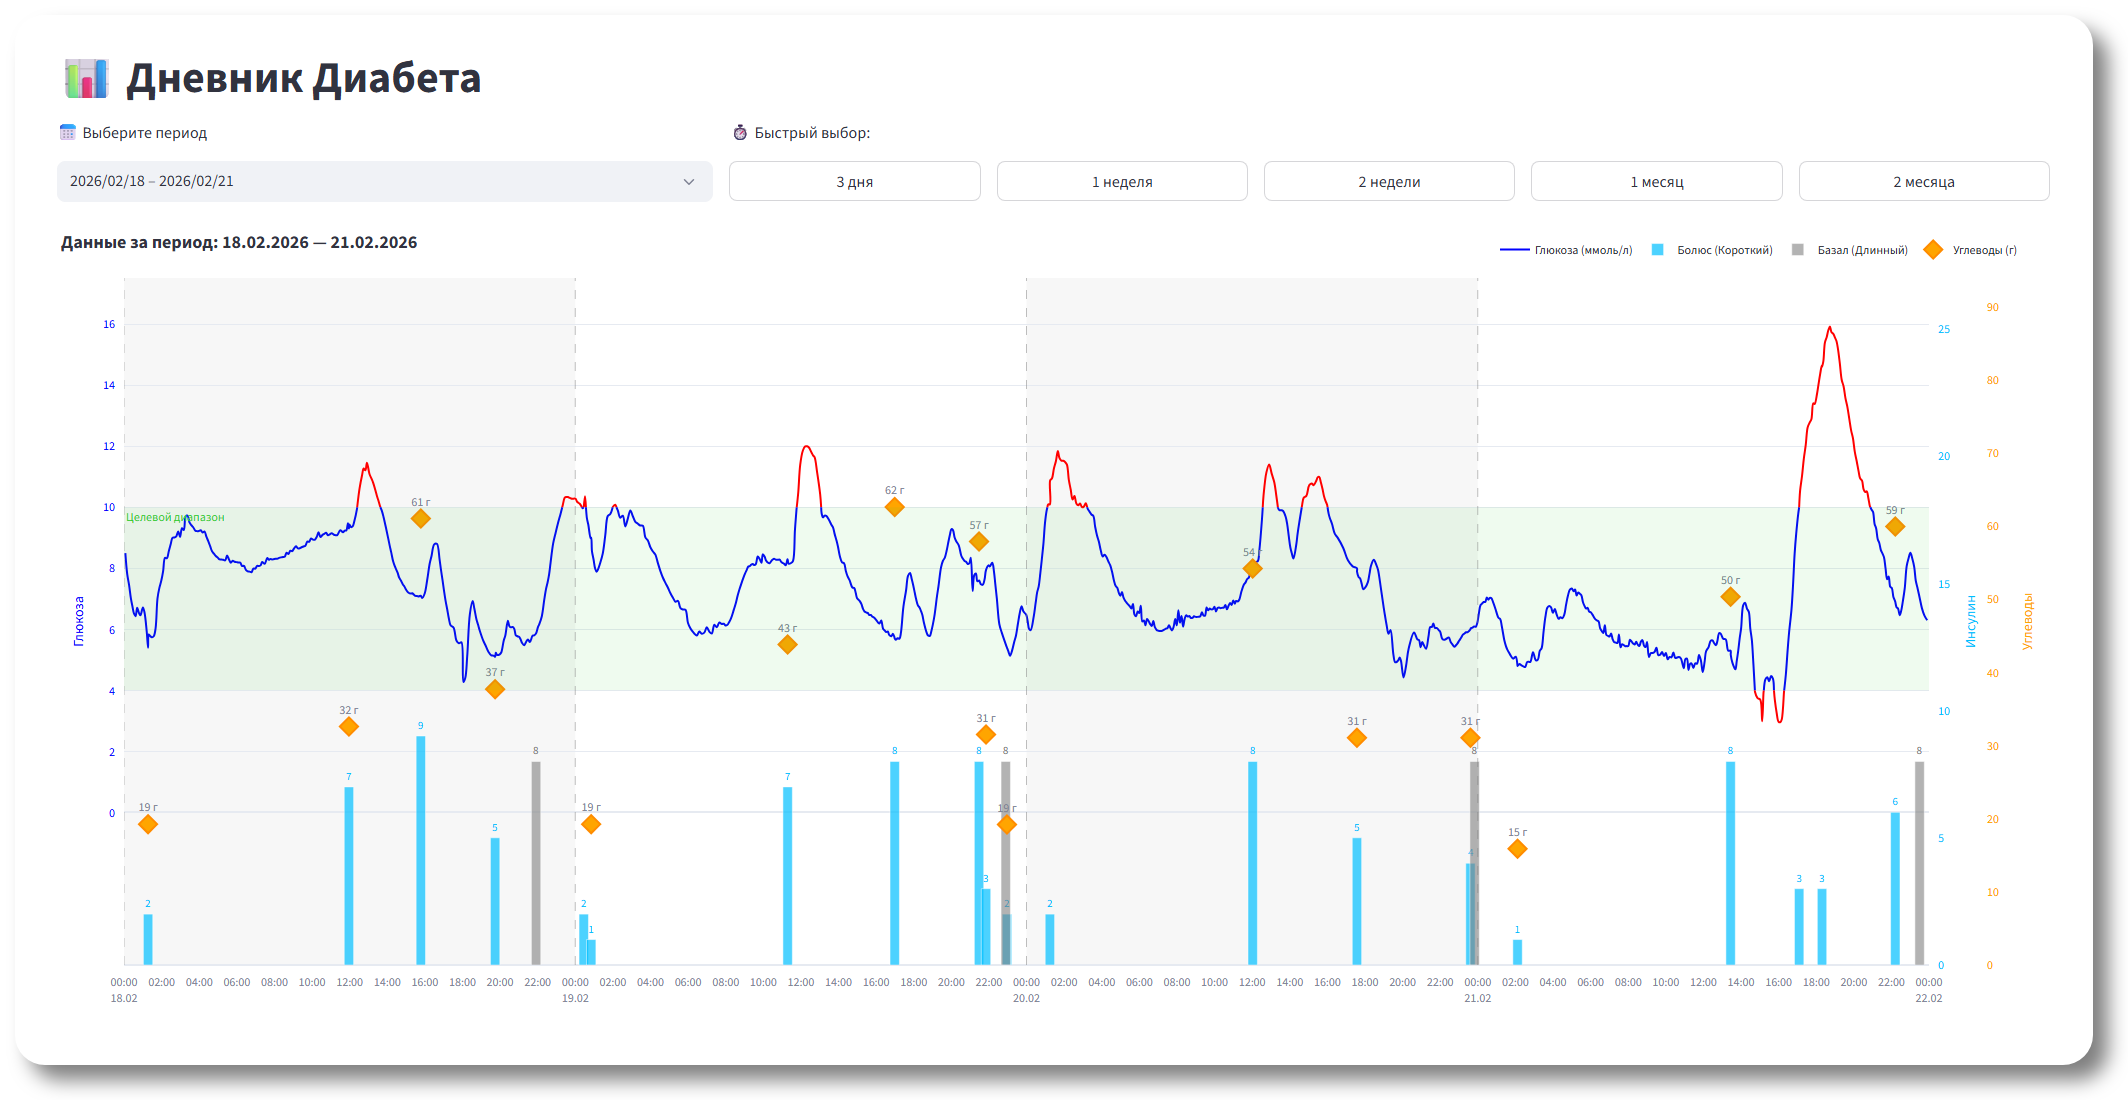
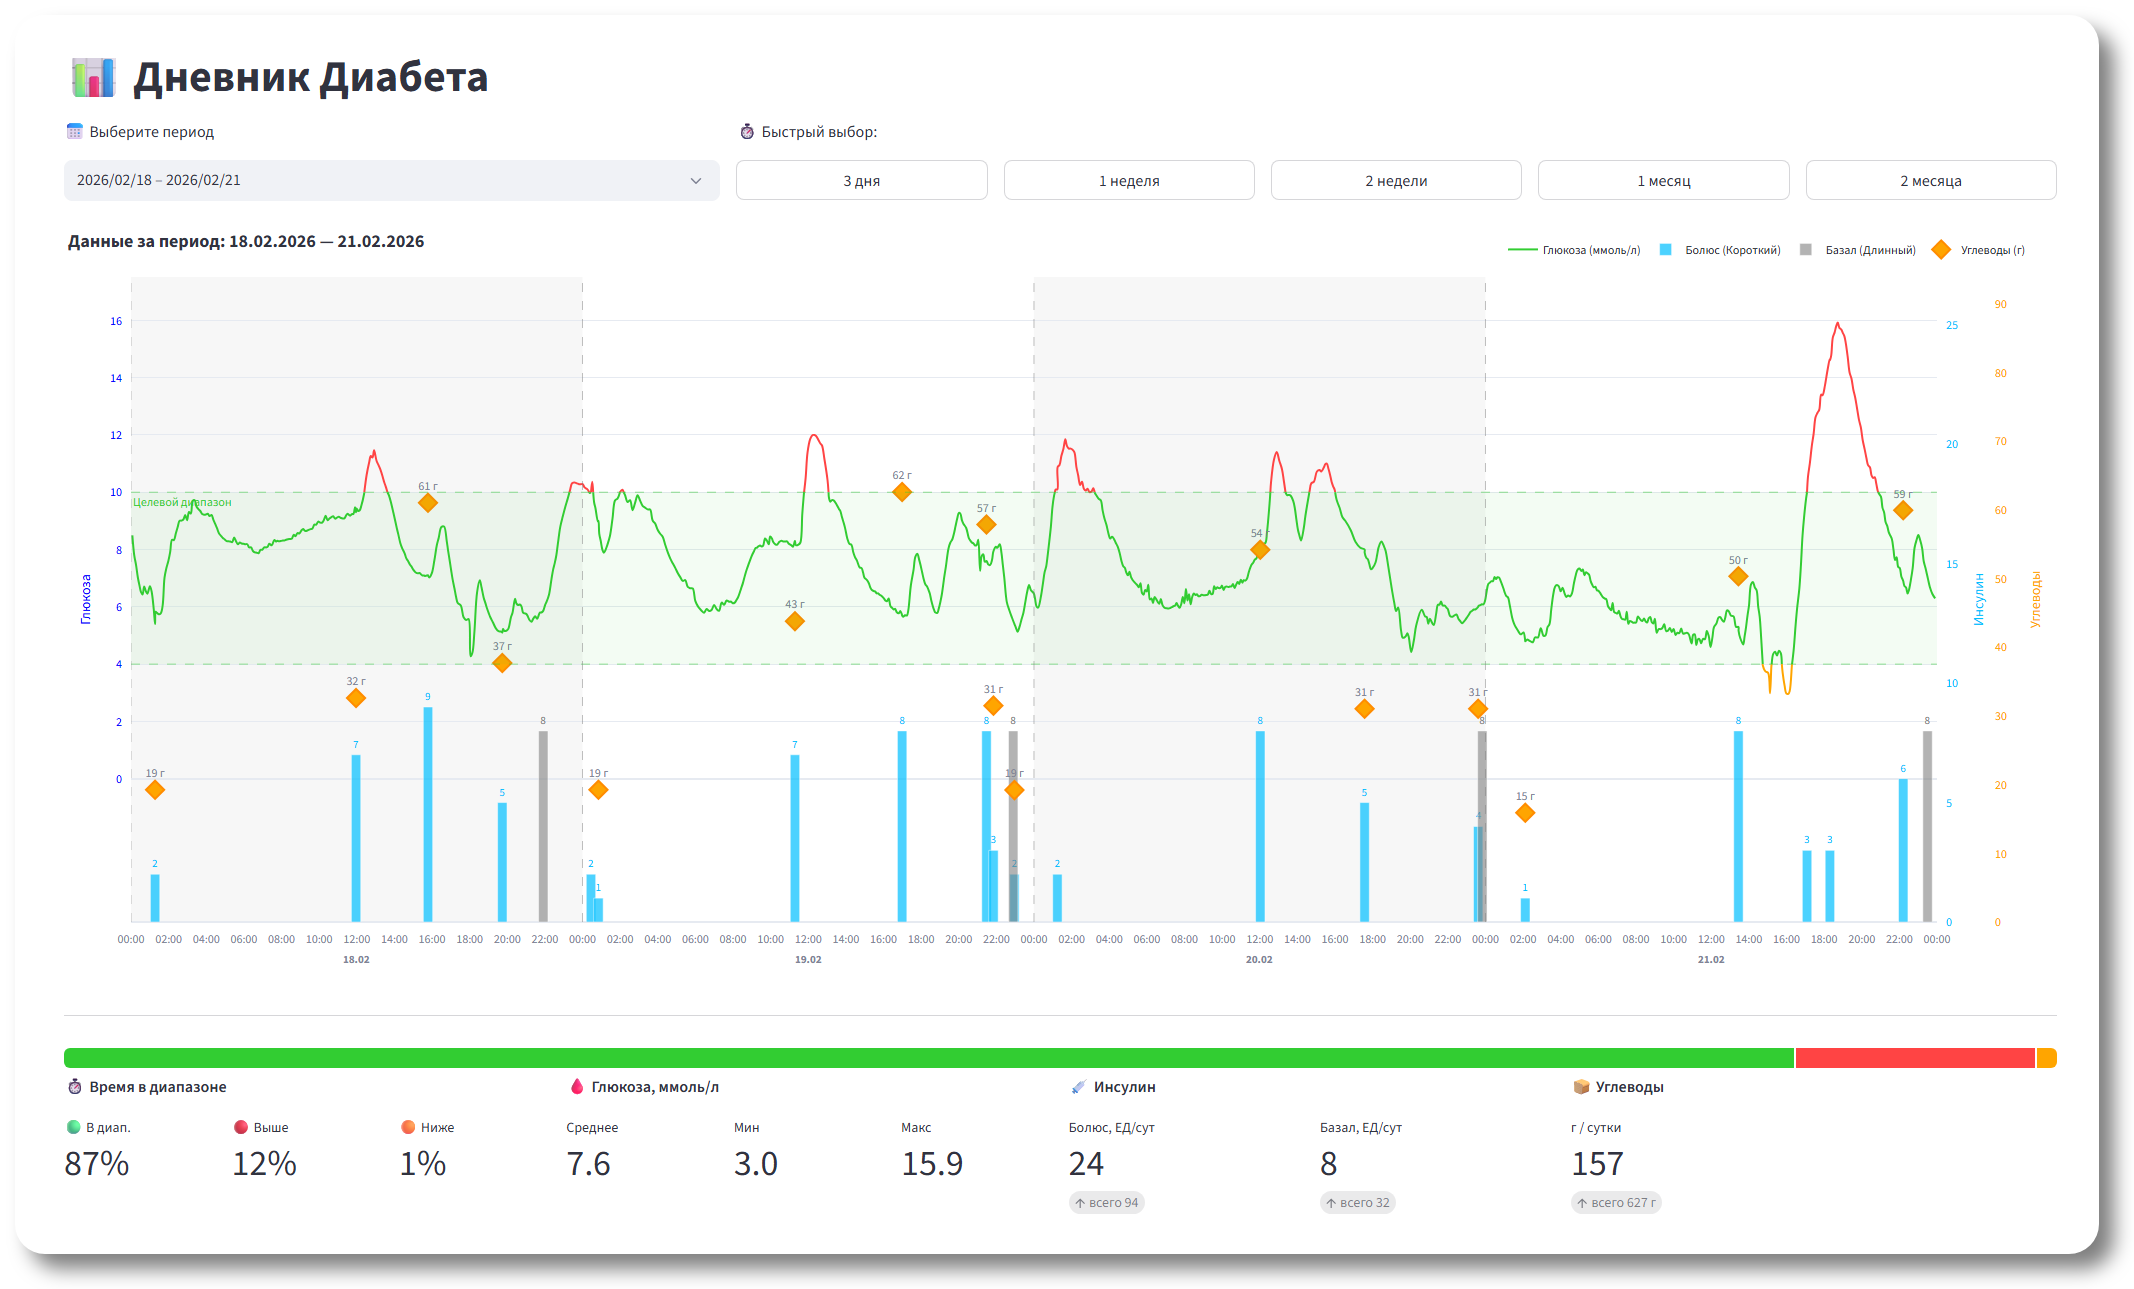
Add statistics

diff --git a/healthkit_diabetes.py b/healthkit_diabetes.py
@@ -14,6 +14,22 @@ FILE_PATH = "export.xml"
 GLUCOSE_MIN = 4  # ммоль/л — нижняя граница целевого диапазона
 GLUCOSE_MAX = 10  # ммоль/л — верхняя граница целевого диапазона
 
+# Единый источник цветов для графика и блока статистики
+_ZONE_COLOR = {
+    "in_range": "#32CD32",  # зелёный  — в диапазоне
+    "above":    "#FF4444",  # красный  — выше диапазона
+    "below":    "#FFA500",  # оранжевый — ниже диапазона
+}
+
+
+def _glucose_zone(v: float) -> str:
+    """Определяет зону глюкозы: 'below', 'in_range' или 'above'."""
+    if v < GLUCOSE_MIN:
+        return "below"
+    if v > GLUCOSE_MAX:
+        return "above"
+    return "in_range"
+
 st.set_page_config(layout="wide", page_title="Дневник Диабета")
 
 st.markdown(
@@ -59,23 +75,20 @@ def _crossing_point(
 
 
 def _glucose_traces(df: pd.DataFrame) -> list[go.Scatter]:
-    """Разбивает линию глюкозы на синие (норма) и красные (вне диапазона) сегменты."""
+    """Разбивает линию глюкозы на сегменты по зонам: ниже/норма/выше диапазона."""
     if df.empty:
         return []
 
     dates = df["date"].tolist()
     values = df["value"].tolist()
 
-    def in_range(v: float) -> bool:
-        return GLUCOSE_MIN <= v <= GLUCOSE_MAX
-
     segments: list[tuple] = []
     seg_x = [dates[0]]
     seg_y = [values[0]]
-    seg_ok = in_range(values[0])
+    seg_ok = _glucose_zone(values[0])
 
     for pt in range(1, len(values)):
-        if in_range(values[pt]) == seg_ok:
+        if _glucose_zone(values[pt]) == seg_ok:
             seg_x.append(dates[pt])
             seg_y.append(values[pt])
         else:
@@ -88,7 +101,7 @@ def _glucose_traces(df: pd.DataFrame) -> list[go.Scatter]:
 
             seg_x = [t_cross, dates[pt]]
             seg_y = [boundary, values[pt]]
-            seg_ok = in_range(values[pt])
+            seg_ok = _glucose_zone(values[pt])
 
     segments.append((seg_x, seg_y, seg_ok))
 
@@ -99,7 +112,7 @@ def _glucose_traces(df: pd.DataFrame) -> list[go.Scatter]:
             y=seg_y,
             name="Глюкоза (ммоль/л)",
             mode="lines",
-            line=dict(color="blue" if ok else "red", width=2, shape="spline"),
+            line=dict(color=_ZONE_COLOR[ok], width=2, shape="spline"),
             yaxis="y1",
             legendgroup="glucose",
             showlegend=idx == 0,
@@ -107,7 +120,7 @@ def _glucose_traces(df: pd.DataFrame) -> list[go.Scatter]:
         ))
 
     # отдельный невидимый трейс для hover — только реальные точки, без дублей
-    hover_colors = ["blue" if in_range(v) else "red" for v in values]
+    hover_colors = [_ZONE_COLOR[_glucose_zone(v)] for v in values]
     result.append(go.Scatter(
         x=dates,
         y=values,
@@ -135,9 +148,101 @@ def _xaxis_ticks() -> dict:
     else:
         dtick = 7 * 24 * 3600_000   # каждые 7 дней
 
-    tickformat = "%H:%M\n%d.%m" if _days <= 14 else "%d.%m"
+    if _days <= 14:
+        # время на тиках, дата — отдельными жирными аннотациями под осью
+        return {"dtick": dtick, "tickformat": "%H:%M"}
 
-    return {"dtick": dtick, "tickformat": tickformat}
+    # крупный диапазон — только даты, жирным
+    return {"dtick": dtick, "tickformat": "%d.%m", "tickfont": dict(weight="bold")}
+
+
+def _glucose_stats(df: pd.DataFrame) -> dict | None:
+    """Вычисляет TIR/TAR/TBR и базовые показатели глюкозы. Возвращает None если данных нет."""
+    if df.empty:
+        return None
+    vals = df["value"]
+    n = len(vals)
+    tir = round(vals.between(GLUCOSE_MIN, GLUCOSE_MAX).sum() / n * 100)
+    tar = round((vals > GLUCOSE_MAX).sum() / n * 100)
+    return {
+        "tir": tir, "tar": tar, "tbr": 100 - tir - tar,
+        "mean": vals.mean(), "min": vals.min(), "max": vals.max(),
+    }
+
+
+def _stats_section(
+    glc: pd.DataFrame,
+    ins: pd.DataFrame,
+    crb: pd.DataFrame,
+    n_days: int,
+) -> None:
+    """Рендерит блок сводной статистики за выбранный период.
+
+    n_days — количество календарных суток в выбранном диапазоне (>= 1),
+    используется для расчёта среднесуточных значений инсулина и углеводов.
+    """
+    g = _glucose_stats(glc)
+    bolus = ins[ins["reason"] == "Болюс"]["value"].sum() if not ins.empty else 0.0
+    basal = ins[ins["reason"] == "Базал"]["value"].sum() if not ins.empty else 0.0
+    carbs = int(crb["value"].sum()) if not crb.empty else 0
+
+    st.markdown("---")
+
+    # Цветная полоска: зелёный — в диапазоне, красный — выше, оранжевый — ниже
+    if g:
+        st.markdown(
+            f"""
+<div style="display:flex;height:20px;border-radius:6px;overflow:hidden;
+            gap:2px;margin-bottom:6px">
+  <div style="width:{g['tir']}%;background:{_ZONE_COLOR['in_range']}" title="В диапазоне: {g['tir']}%"></div>
+  <div style="width:{g['tar']}%;background:{_ZONE_COLOR['above']}" title="Выше диапазона: {g['tar']}%"></div>
+  <div style="width:{g['tbr']}%;background:{_ZONE_COLOR['below']}" title="Ниже диапазона: {g['tbr']}%"></div>
+</div>""",
+            unsafe_allow_html=True,
+        )
+
+    col_tir, col_gl, col_i, col_c = st.columns(4)
+
+    with col_tir:
+        st.markdown("**⏱ Время в диапазоне**")
+        if g:
+            c1, c2, c3 = st.columns(3)
+            c1.metric("🟢 В диап.", f"{g['tir']}%")
+            c2.metric("🔴 Выше", f"{g['tar']}%")
+            c3.metric("🟠 Ниже", f"{g['tbr']}%")
+
+    with col_gl:
+        st.markdown("**🩸 Глюкоза, ммоль/л**")
+        if g:
+            c1, c2, c3 = st.columns(3)
+            c1.metric("Среднее", f"{g['mean']:.1f}")
+            c2.metric("Мин", f"{g['min']:.1f}")
+            c3.metric("Макс", f"{g['max']:.1f}")
+
+    with col_i:
+        st.markdown("**💉 Инсулин**")
+        c1, c2 = st.columns(2)
+        c1.metric(
+            "Болюс, ЕД/сут",
+            round(bolus / n_days),
+            delta=f"всего {round(bolus)}",
+            delta_color="off",
+        )
+        c2.metric(
+            "Базал, ЕД/сут",
+            round(basal / n_days),
+            delta=f"всего {round(basal)}",
+            delta_color="off",
+        )
+
+    with col_c:
+        st.markdown("**🍞 Углеводы**")
+        st.metric(
+            "г / сутки",
+            int(round(carbs / n_days)),
+            delta=f"всего {carbs} г",
+            delta_color="off",
+        )
 
 
 def _to_sorted_df(records: list[dict]) -> pd.DataFrame:
@@ -303,12 +408,21 @@ if not f_g.empty:
         y0=GLUCOSE_MIN,
         y1=GLUCOSE_MAX,
         line_width=0,
-        fillcolor="#32CD32",
-        opacity=0.08,
+        fillcolor=_ZONE_COLOR["in_range"],
+        opacity=0.06,
         annotation_text="Целевой диапазон",
         annotation_position="top left",
-        annotation_font_color="#32CD32",
+        annotation_font_color=_ZONE_COLOR["in_range"],
     )
+
+    for thresh in (GLUCOSE_MIN, GLUCOSE_MAX):
+        fig.add_hline(
+            y=thresh,
+            line_dash="dash",
+            line_color=_ZONE_COLOR["in_range"],
+            line_width=1,
+            opacity=0.5,
+        )
 
 # 2. Инсулин
 if not f_i.empty:
@@ -391,6 +505,23 @@ DATE_RANGE_STR = f"{START_STR} — {END_STR}"
 
 _days = (st.session_state.end_date - st.session_state.start_date).days
 
+# Жирные подписи дат под осью — только для коротких диапазонов,
+# где тики показывают лишь время (%H:%M)
+if _days <= 14:
+    for day_start in days[:-1]:
+        fig.add_annotation(
+            x=day_start + pd.Timedelta(hours=12),
+            xref="x",
+            y=0,
+            yref="paper",
+            yshift=-28,   # пикселей вниз от нижней границы графика
+            text=f"<b>{day_start.strftime('%d.%m')}</b>",
+            showarrow=False,
+            font=dict(size=11),
+            xanchor="center",
+            yanchor="top",
+        )
+
 fig.update_layout(
     title=dict(text=f"Данные за период: {DATE_RANGE_STR}", font=dict(size=18)),
     hovermode="x unified",
@@ -398,8 +529,8 @@ fig.update_layout(
     template="plotly_white",
     legend=dict(orientation="h", yanchor="bottom",
                 y=1.02, xanchor="right", x=1),
-    height=800,
-    margin=dict(l=20, r=20, t=60, b=20),
+    height=750,
+    margin=dict(l=20, r=20, t=60, b=45 if _days <= 14 else 20),
     xaxis=dict(
         domain=[0, 0.95],
         range=[start_dt, end_dt],
@@ -443,3 +574,5 @@ config = {
 }
 
 st.plotly_chart(fig, width="stretch", config=config)
+
+_stats_section(f_g, f_i, f_c, max(1, _days + 1))

diff --git a/IMPROVEMENTS.md b/IMPROVEMENTS.md
@@ -12,15 +12,15 @@
 
 ## 2. Новые функции
 
-- [ ] **Сводная статистика** — блок с ключевыми показателями за выбранный период:
+- [x] **Сводная статистика** — блок с ключевыми показателями за выбранный период:
   - среднее/мин/макс глюкозы
   - суммарный инсулин (базальный + болюсный)
   - суммарные углеводы
   - % времени в целевом диапазоне (Time in Range)
 - [x] **Настраиваемые пороги глюкозы** — `GLUCOSE_MIN` / `GLUCOSE_MAX` вынесены в константы в начало файла (UI-слайдер — следующий шаг)
+- [x] **Почасовые метки на оси X** — динамический интервал меток в зависимости от диапазона: 2 ч / 6 ч / 12 ч / 24 ч / 7 дней
 - [ ] **Экспорт данных** — кнопка для скачивания отфильтрованных данных в CSV
 - [ ] **Анализ корреляций** — визуализация связи между приёмами пищи и скачками глюкозы
-- [x] **Почасовые метки на оси X** — динамический интервал меток в зависимости от диапазона: 2 ч / 6 ч / 12 ч / 24 ч / 7 дней
 
 ## 3. DevOps / конфигурация
 
@@ -34,7 +34,7 @@
 |-----------|--------|
 | ~~Высокий~~ | ~~Обработка ошибок~~ ✓ |
 | ~~Высокий~~ | ~~Makefile для Linux/macOS~~ ✓ |
-| Средний | Сводная статистика (Time in Range) |
+| ~~Средний~~ | ~~Сводная статистика (Time in Range~~) ✓ |
 | ~~Средний~~ | ~~Настраиваемые пороги глюкозы~~ ✓ |
 | Средний | Разбивка на модули |
 | Низкий | Unit-тесты |
